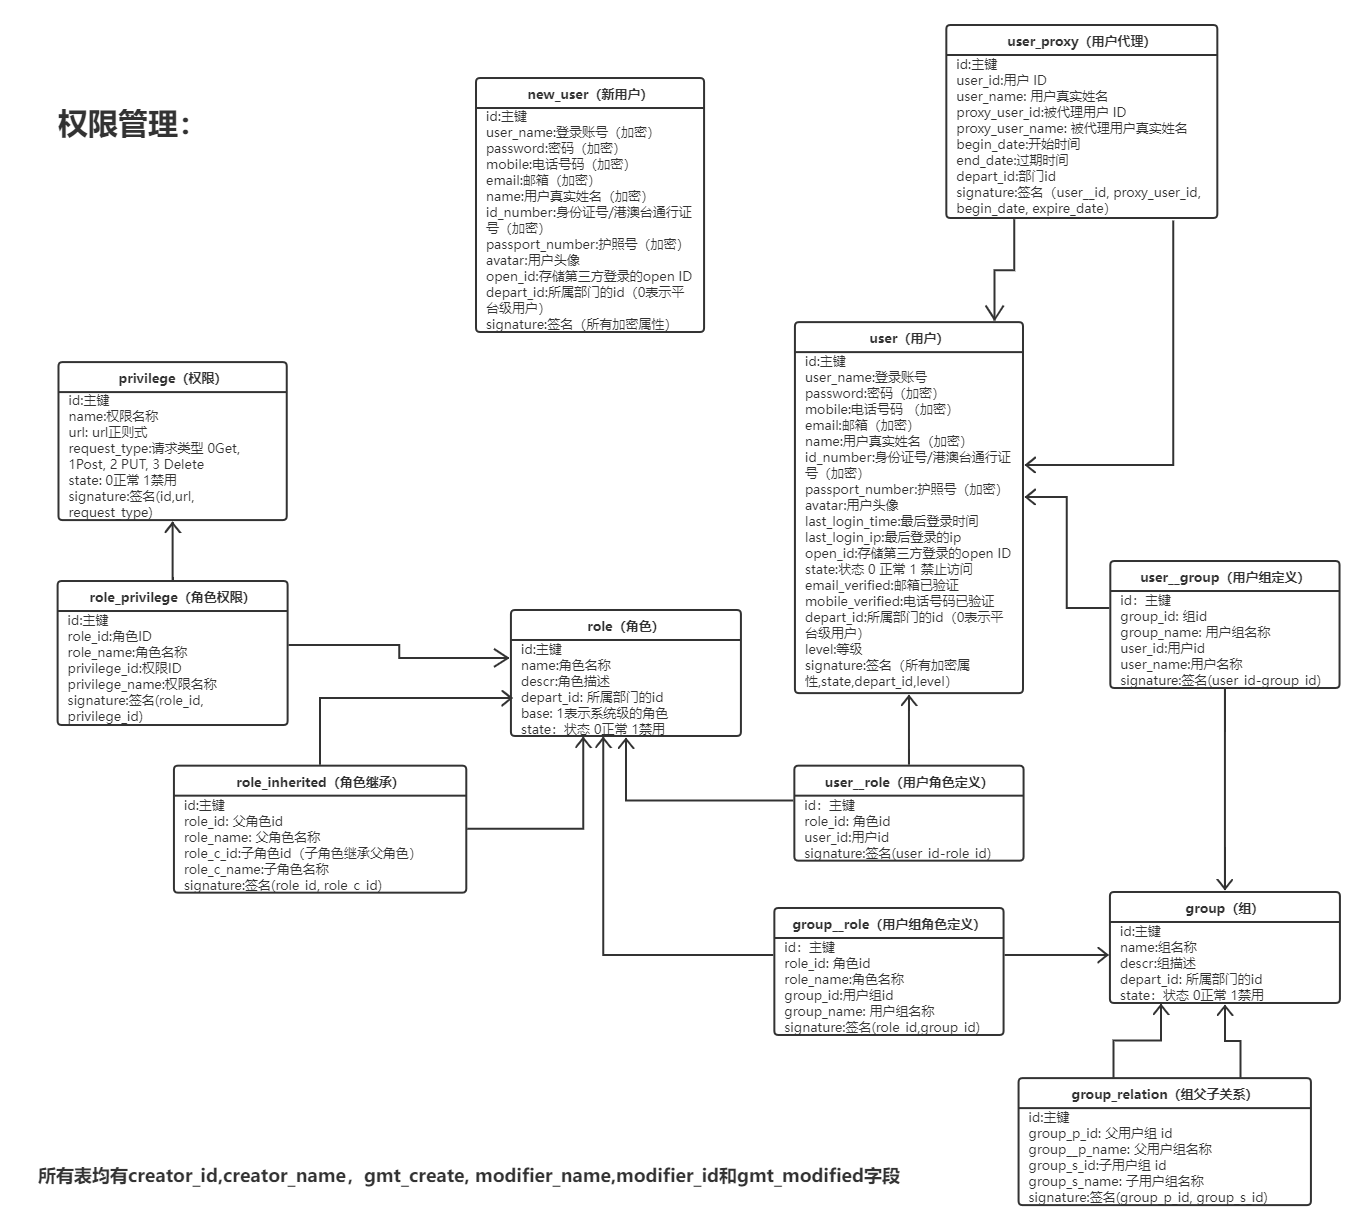
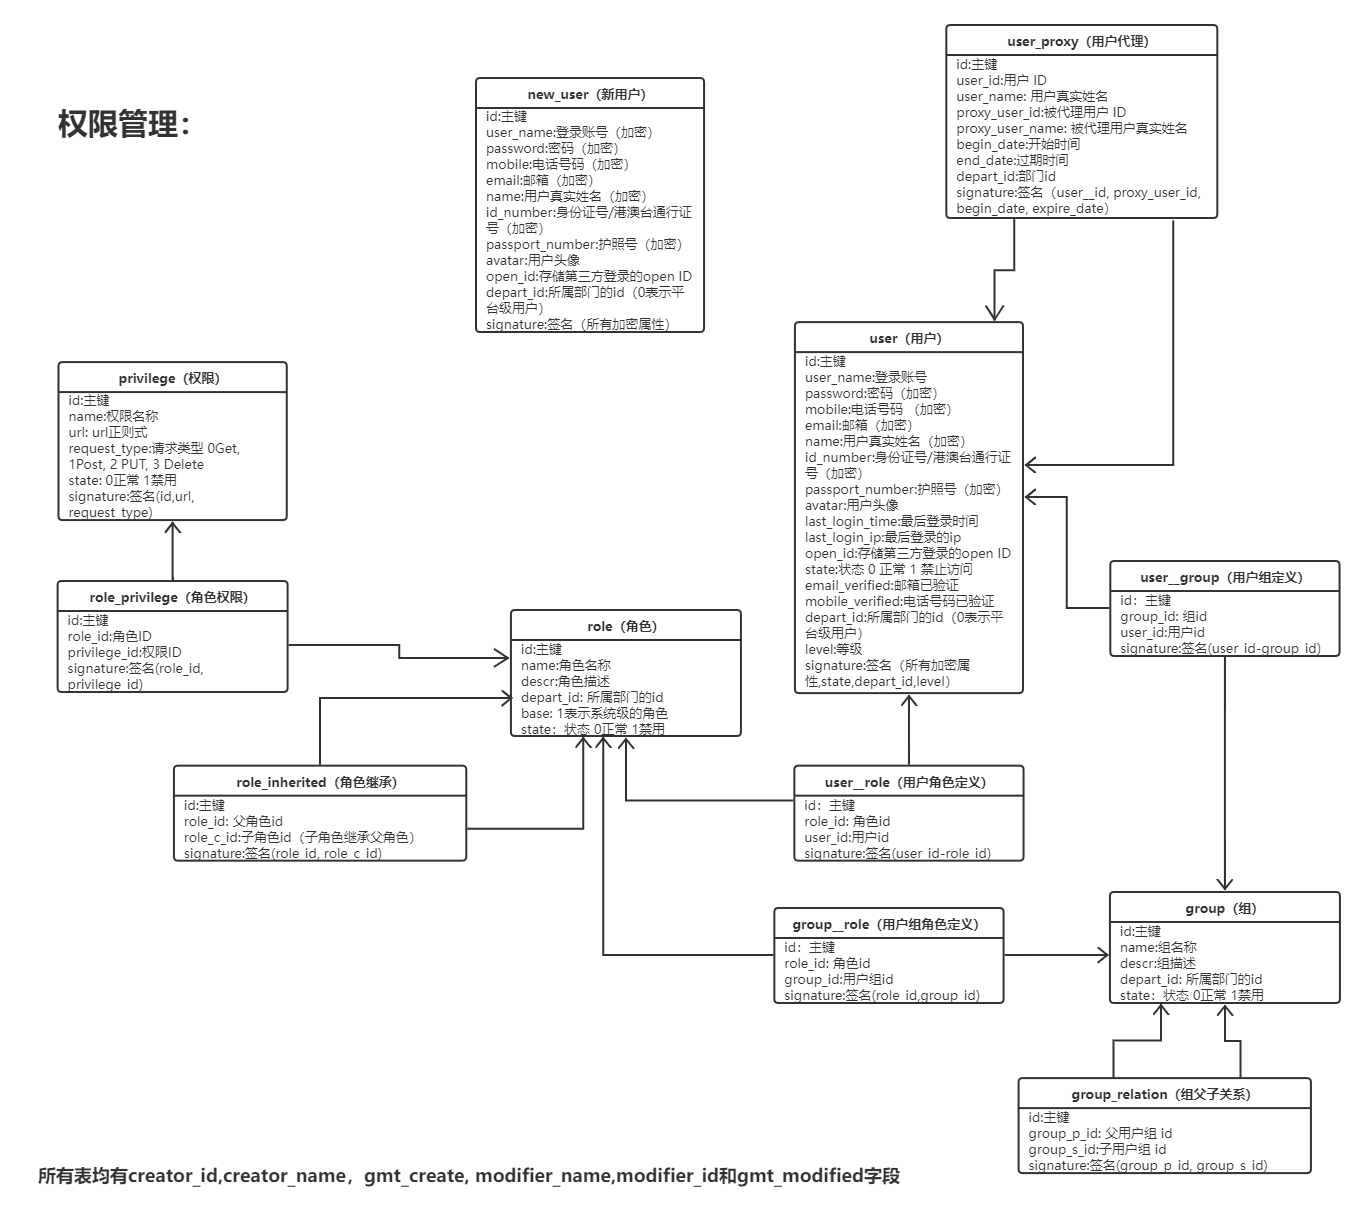
user_proxy表增加了id对应的name字段

diff --git a/privilegeservice/src/main/java/cn/edu/xmu/privilegegateway/privilegeservice/model/po/GroupRelationPoExample.java b/privilegeservice/src/main/java/cn/edu/xmu/privilegegateway/privilegeservice/model/po/GroupRelationPoExample.java
@@ -824,146 +824,6 @@ public class GroupRelationPoExample {
             addCriterion("`modifier_name` not between", value1, value2, "modifierName");
             return (Criteria) this;
         }
-
-        public Criteria andGroupPNameIsNull() {
-            addCriterion("`group_p_name` is null");
-            return (Criteria) this;
-        }
-
-        public Criteria andGroupPNameIsNotNull() {
-            addCriterion("`group_p_name` is not null");
-            return (Criteria) this;
-        }
-
-        public Criteria andGroupPNameEqualTo(String value) {
-            addCriterion("`group_p_name` =", value, "groupPName");
-            return (Criteria) this;
-        }
-
-        public Criteria andGroupPNameNotEqualTo(String value) {
-            addCriterion("`group_p_name` <>", value, "groupPName");
-            return (Criteria) this;
-        }
-
-        public Criteria andGroupPNameGreaterThan(String value) {
-            addCriterion("`group_p_name` >", value, "groupPName");
-            return (Criteria) this;
-        }
-
-        public Criteria andGroupPNameGreaterThanOrEqualTo(String value) {
-            addCriterion("`group_p_name` >=", value, "groupPName");
-            return (Criteria) this;
-        }
-
-        public Criteria andGroupPNameLessThan(String value) {
-            addCriterion("`group_p_name` <", value, "groupPName");
-            return (Criteria) this;
-        }
-
-        public Criteria andGroupPNameLessThanOrEqualTo(String value) {
-            addCriterion("`group_p_name` <=", value, "groupPName");
-            return (Criteria) this;
-        }
-
-        public Criteria andGroupPNameLike(String value) {
-            addCriterion("`group_p_name` like", value, "groupPName");
-            return (Criteria) this;
-        }
-
-        public Criteria andGroupPNameNotLike(String value) {
-            addCriterion("`group_p_name` not like", value, "groupPName");
-            return (Criteria) this;
-        }
-
-        public Criteria andGroupPNameIn(List<String> values) {
-            addCriterion("`group_p_name` in", values, "groupPName");
-            return (Criteria) this;
-        }
-
-        public Criteria andGroupPNameNotIn(List<String> values) {
-            addCriterion("`group_p_name` not in", values, "groupPName");
-            return (Criteria) this;
-        }
-
-        public Criteria andGroupPNameBetween(String value1, String value2) {
-            addCriterion("`group_p_name` between", value1, value2, "groupPName");
-            return (Criteria) this;
-        }
-
-        public Criteria andGroupPNameNotBetween(String value1, String value2) {
-            addCriterion("`group_p_name` not between", value1, value2, "groupPName");
-            return (Criteria) this;
-        }
-
-        public Criteria andGroupSNameIsNull() {
-            addCriterion("`group_s_name` is null");
-            return (Criteria) this;
-        }
-
-        public Criteria andGroupSNameIsNotNull() {
-            addCriterion("`group_s_name` is not null");
-            return (Criteria) this;
-        }
-
-        public Criteria andGroupSNameEqualTo(String value) {
-            addCriterion("`group_s_name` =", value, "groupSName");
-            return (Criteria) this;
-        }
-
-        public Criteria andGroupSNameNotEqualTo(String value) {
-            addCriterion("`group_s_name` <>", value, "groupSName");
-            return (Criteria) this;
-        }
-
-        public Criteria andGroupSNameGreaterThan(String value) {
-            addCriterion("`group_s_name` >", value, "groupSName");
-            return (Criteria) this;
-        }
-
-        public Criteria andGroupSNameGreaterThanOrEqualTo(String value) {
-            addCriterion("`group_s_name` >=", value, "groupSName");
-            return (Criteria) this;
-        }
-
-        public Criteria andGroupSNameLessThan(String value) {
-            addCriterion("`group_s_name` <", value, "groupSName");
-            return (Criteria) this;
-        }
-
-        public Criteria andGroupSNameLessThanOrEqualTo(String value) {
-            addCriterion("`group_s_name` <=", value, "groupSName");
-            return (Criteria) this;
-        }
-
-        public Criteria andGroupSNameLike(String value) {
-            addCriterion("`group_s_name` like", value, "groupSName");
-            return (Criteria) this;
-        }
-
-        public Criteria andGroupSNameNotLike(String value) {
-            addCriterion("`group_s_name` not like", value, "groupSName");
-            return (Criteria) this;
-        }
-
-        public Criteria andGroupSNameIn(List<String> values) {
-            addCriterion("`group_s_name` in", values, "groupSName");
-            return (Criteria) this;
-        }
-
-        public Criteria andGroupSNameNotIn(List<String> values) {
-            addCriterion("`group_s_name` not in", values, "groupSName");
-            return (Criteria) this;
-        }
-
-        public Criteria andGroupSNameBetween(String value1, String value2) {
-            addCriterion("`group_s_name` between", value1, value2, "groupSName");
-            return (Criteria) this;
-        }
-
-        public Criteria andGroupSNameNotBetween(String value1, String value2) {
-            addCriterion("`group_s_name` not between", value1, value2, "groupSName");
-            return (Criteria) this;
-        }
     }
 
     /**

diff --git a/privilegeservice/src/main/java/cn/edu/xmu/privilegegateway/privilegeservice/model/po/GroupRelationPo.java b/privilegeservice/src/main/java/cn/edu/xmu/privilegegateway/privilegeservice/model/po/GroupRelationPo.java
@@ -94,24 +94,6 @@ public class GroupRelationPo {
     private String modifierName;
 
     /**
-     *
-     * This field was generated by MyBatis Generator.
-     * This field corresponds to the database column auth_group_relation.group_p_name
-     *
-     * @mbg.generated
-     */
-    private String groupPName;
-
-    /**
-     *
-     * This field was generated by MyBatis Generator.
-     * This field corresponds to the database column auth_group_relation.group_s_name
-     *
-     * @mbg.generated
-     */
-    private String groupSName;
-
-    /**
      * This method was generated by MyBatis Generator.
      * This method returns the value of the database column auth_group_relation.id
      *
@@ -349,53 +331,5 @@ public class GroupRelationPo {
      */
     public void setModifierName(String modifierName) {
         this.modifierName = modifierName == null ? null : modifierName.trim();
-    }
-
-    /**
-     * This method was generated by MyBatis Generator.
-     * This method returns the value of the database column auth_group_relation.group_p_name
-     *
-     * @return the value of auth_group_relation.group_p_name
-     *
-     * @mbg.generated
-     */
-    public String getGroupPName() {
-        return groupPName;
-    }
-
-    /**
-     * This method was generated by MyBatis Generator.
-     * This method sets the value of the database column auth_group_relation.group_p_name
-     *
-     * @param groupPName the value for auth_group_relation.group_p_name
-     *
-     * @mbg.generated
-     */
-    public void setGroupPName(String groupPName) {
-        this.groupPName = groupPName == null ? null : groupPName.trim();
-    }
-
-    /**
-     * This method was generated by MyBatis Generator.
-     * This method returns the value of the database column auth_group_relation.group_s_name
-     *
-     * @return the value of auth_group_relation.group_s_name
-     *
-     * @mbg.generated
-     */
-    public String getGroupSName() {
-        return groupSName;
-    }
-
-    /**
-     * This method was generated by MyBatis Generator.
-     * This method sets the value of the database column auth_group_relation.group_s_name
-     *
-     * @param groupSName the value for auth_group_relation.group_s_name
-     *
-     * @mbg.generated
-     */
-    public void setGroupSName(String groupSName) {
-        this.groupSName = groupSName == null ? null : groupSName.trim();
     }
 }
